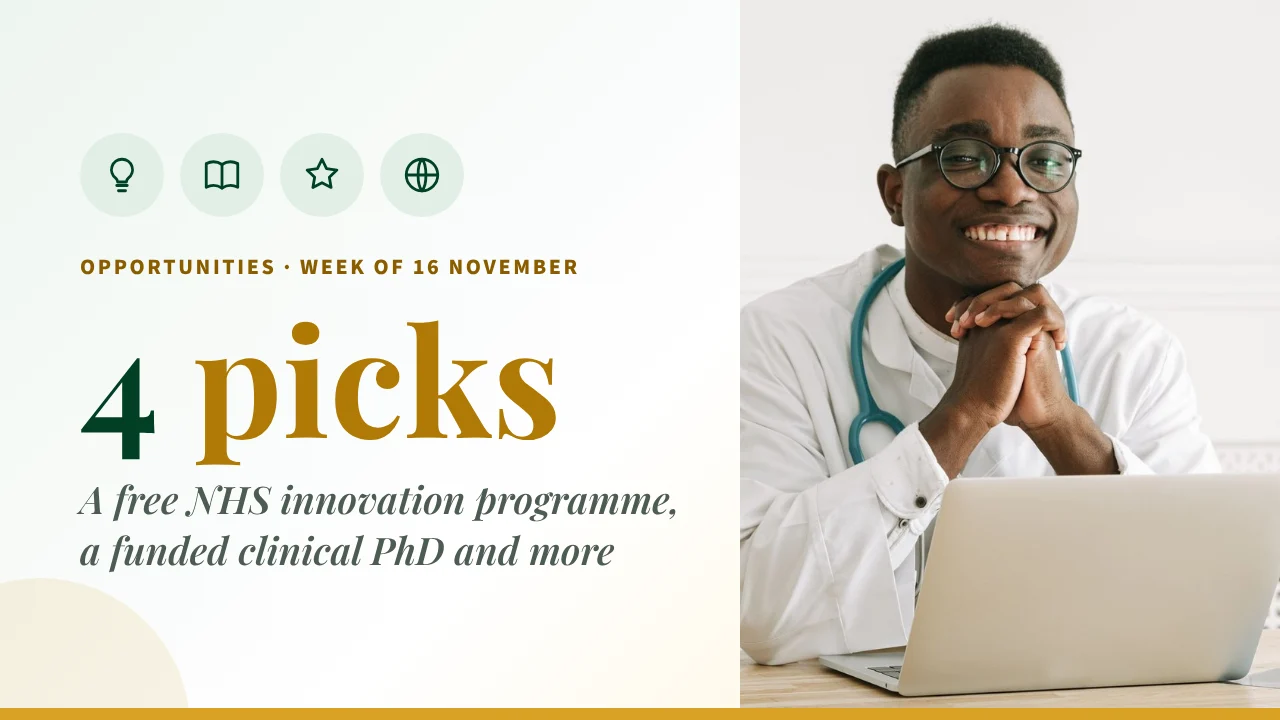
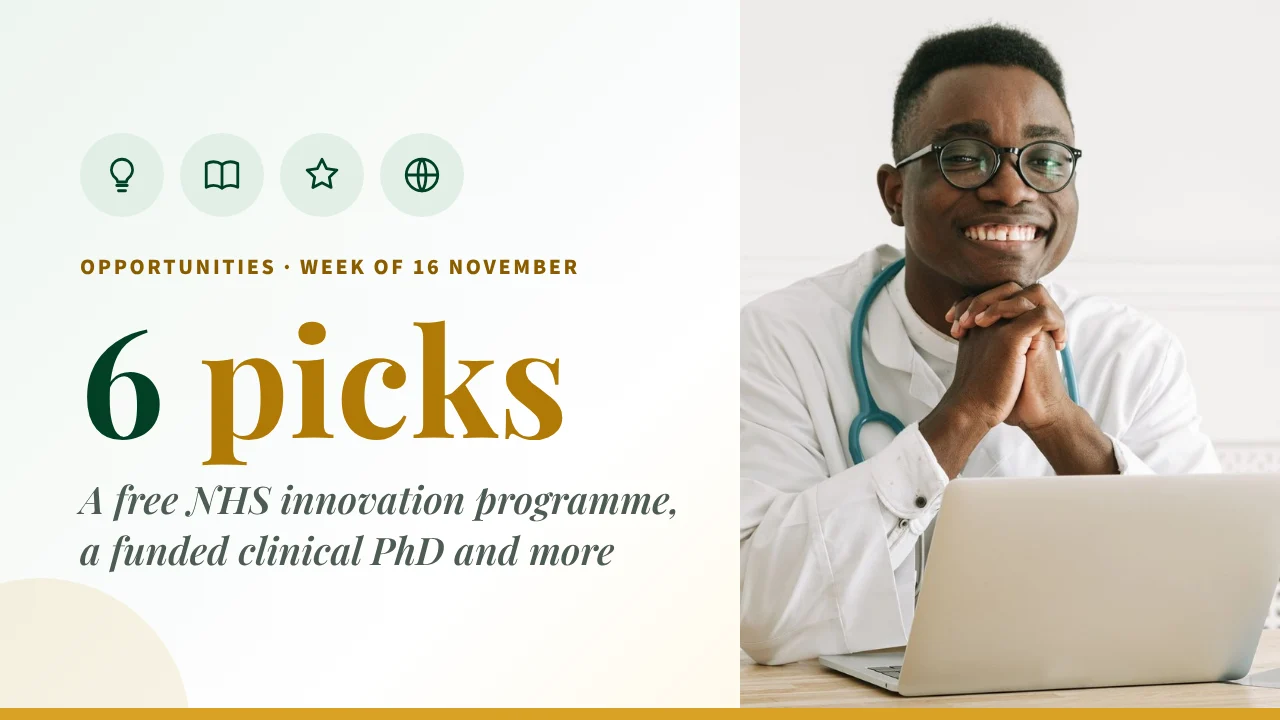
Add NIHR Academy awards and AMS Cross-sector Experience Awards to the 16 November roundup (#48)
Claude-Session: https://claude.ai/code/session_01TceWZ1n8TxHLDNLvaqp6sJ

Changed region(s): [[0.1562, 0.4278, 0.4375, 0.6417], [0.0625, 0.4583, 0.125, 0.6417]]

diff --git a/opportunities-2026-11-16.html b/opportunities-2026-11-16.html
@@ -3,11 +3,11 @@
 <head>
 <meta charset="utf-8">
 <meta name="viewport" content="width=device-width, initial-scale=1">
-<title>Healthcare opportunities, week of 16 November 2026: 4 picks | IHPN-UK</title>
-<meta name="description" content="Four checked opportunities, week of 16 November 2026: the NHS Clinical Entrepreneur Programme, a funded clinical PhD, research time and registrar projects.">
+<title>Healthcare opportunities, week of 16 November 2026: 6 picks | IHPN-UK</title>
+<meta name="description" content="Six checked opportunities, week of 16 November 2026: the NHS Clinical Entrepreneur Programme, NIHR and MRC research awards, placements and more.">
 <meta name="theme-color" content="#013f24">
-<meta property="og:title" content="Healthcare opportunities, week of 16 November 2026: 4 picks | IHPN-UK">
-<meta property="og:description" content="Four checked opportunities, week of 16 November 2026: the NHS Clinical Entrepreneur Programme, a funded clinical PhD, research time and registrar projects.">
+<meta property="og:title" content="Healthcare opportunities, week of 16 November 2026: 6 picks | IHPN-UK">
+<meta property="og:description" content="Six checked opportunities, week of 16 November 2026: the NHS Clinical Entrepreneur Programme, NIHR and MRC research awards, placements and more.">
 <link rel="canonical" href="https://ihpnuk.github.io/opportunities-2026-11-16.html">
 <meta property="og:url" content="https://ihpnuk.github.io/opportunities-2026-11-16.html">
 <meta property="og:site_name" content="Igbo Healthcare Professionals Network (IHPN-UK)">
@@ -15,7 +15,7 @@
 <meta property="og:image" content="https://ihpnuk.github.io/assets/share/opportunities-2026-11-16.jpg">
 <meta property="og:image:width" content="1200">
 <meta property="og:image:height" content="630">
-<meta property="og:image:alt" content="4 opportunities for UK healthcare professionals, week of 16 November 2026">
+<meta property="og:image:alt" content="6 opportunities for UK healthcare professionals, week of 16 November 2026">
 <meta property="article:modified_time" content="2026-11-15">
 <meta property="article:published_time" content="2026-11-15">
 <meta name="twitter:card" content="summary_large_image">
@@ -76,7 +76,7 @@
 @media (max-width:860px){.glance{grid-template-columns:1fr}}
 @media (max-width:560px){.feat-art{height:100px;justify-content:flex-end;padding-right:32px}.feat-art svg{width:56px;height:56px}.feat-body b{font-size:1.35rem}.mini a{grid-template-columns:40px 1fr}.mini .gl-who{font-size:.72rem}.mini svg{width:40px;height:40px;padding:8px}}
 .feat-art.ph{background:#eef2ef}.feat-art.ph::before,.feat-art.ph::after{display:none}.feat-art.ph img{position:absolute;inset:0;width:100%;height:100%;object-fit:cover;object-position:72% 15%}.ai-note{position:absolute;right:8px;bottom:8px;z-index:1;background:rgba(255,255,255,.85);color:#333;font-size:10px;line-height:1.3;font-weight:600;padding:1px 6px;border-radius:999px}@media (min-width:861px){.feat-art{flex:1;height:auto;min-height:260px}}.feat-art.ph img{object-position:72% 15%}@media (max-width:560px){.feat-art.ph{height:230px;padding-right:0}.feat-art.ph img{object-position:72% 15%}}
-.feat-flag{top:auto;bottom:12px}.glance{grid-template-columns:1fr}.feat-art.ph img{object-position:50% 10%}@media (min-width:861px){.feat{flex-direction:row}.feat-art{flex:0 0 44%;min-height:300px}.mini{display:grid;grid-template-columns:1fr 1fr 1fr;gap:12px}.mini a{height:100%}}@media (max-width:560px){.feat-art.ph img{object-position:50% 6%}}
+.feat-flag{top:auto;bottom:12px}.glance{grid-template-columns:1fr}.feat-art.ph img{object-position:50% 10%}@media (min-width:861px){.feat{flex-direction:row}.feat-art{flex:0 0 44%;min-height:300px}.mini{display:grid;grid-template-columns:1fr 1fr;gap:12px}.mini a{height:100%}}@media (max-width:560px){.feat-art.ph img{object-position:50% 6%}}
 </style>
 <script type="application/ld+json" id="seo-ld">
 {
@@ -85,8 +85,8 @@
   {
    "@type": "Article",
    "@id": "https://ihpnuk.github.io/opportunities-2026-11-16.html#article",
-   "headline": "Healthcare opportunities, week of 16 November 2026: 4 picks",
-   "description": "Four checked opportunities, week of 16 November 2026: the NHS Clinical Entrepreneur Programme, a funded clinical PhD, research time and registrar projects.",
+   "headline": "Healthcare opportunities, week of 16 November 2026: 6 picks",
+   "description": "Six checked opportunities, week of 16 November 2026: the NHS Clinical Entrepreneur Programme, NIHR and MRC research awards, placements and more.",
    "image": [
     "https://ihpnuk.github.io/assets/share/opportunities-2026-11-16.jpg"
    ],
@@ -158,14 +158,14 @@
 <section class="page-hero"><div class="wrap">
   <nav class="eyebrow" aria-label="Breadcrumb"><a href="news.html">News</a> &bull; Opportunities &bull; Week of 16 November 2026</nav>
   <h1>Opportunities: week of 16 November 2026</h1>
-  <p class="lead">Four picks this week, all about innovation, research and career growth: a free NHS innovation programme open to almost every role, a funded PhD you can do while staying clinical, protected research time in Scotland and national projects for public health registrars. Tap one to jump to it.</p>
+  <p class="lead">Six picks this week, all about innovation, research and career growth: a free NHS innovation programme open to almost every role, NIHR research awards at every level, a paid placement in another sector, a funded PhD you can do while staying clinical, protected research time in Scotland and national projects for public health registrars. Tap one to jump to it.</p>
 </div></section>
 
 <section>
   <div class="wrap" style="max-width:960px">
     <h2 class="sr">At a glance</h2>
-    <div class="glance"><a class="feat" href="#nhs-cep" aria-label="Featured: NHS Clinical Entrepreneur Programme, Closes Fri 20 Nov 2026, 4pm: apply this week. See details"><div class="feat-art ph"><img src="assets/photos/pexels-doctor-laptop.webp" alt="" width="768" height="1024"><span class="feat-flag">Closes Friday: apply this week</span></div><div class="feat-body"><span class="gl-who">Almost every NHS role, from HCAs to consultants</span><b>NHS Clinical Entrepreneur Programme</b><p>A free year of mentoring, workshops and events to turn your idea for better care into a real innovation.</p><span class="feat-when">Closes Fri 20 Nov 2026, 4pm: apply this week</span><span class="feat-btn">See details <span aria-hidden="true">&rarr;</span></span></div></a><ul class="mini"><li><a href="#mrc-crtf"><svg viewBox="0 0 24 24" aria-hidden="true"><path d="M9 3h6M10 3v6l-5 9a2 2 0 0 0 1.8 3h10.4a2 2 0 0 0 1.8-3l-5-9V3"/><path d="M7.5 15h9"/></svg><span><span class="gl-who">Nurses, midwives, pharmacists, dietitians, clinical psychologists &amp; doctors</span><b>Funded PhD for clinicians (MRC)</b></span><em>Closes 13 Jan</em></a></li><li><a href="#nrs-clinician-researcher"><svg viewBox="0 0 24 24" aria-hidden="true"><circle cx="9" cy="8" r="3"/><circle cx="17" cy="9" r="2.5"/><path d="M3 20c0-3.5 2.7-6 6-6s6 2.5 6 6"/><path d="M15 14.5c3 0 5.5 2 5.5 5"/></svg><span><span class="gl-who">Scotland: nurses, AHPs, pharmacists, psychologists &amp; public health</span><b>Protected research time (Scotland)</b></span><em>Closes 8 Dec</em></a></li><li><a href="#fph-projects"><svg viewBox="0 0 24 24" aria-hidden="true"><circle cx="12" cy="12" r="9"/><path d="M3 12h18M12 3c3 3.2 3 14.8 0 18M12 3c-3 3.2-3 14.8 0 18"/></svg><span><span class="gl-who">Public health specialty registrars</span><b>FPH projects for PH registrars</b></span><em>Act Early by 1 Dec</em></a></li></ul></div>
-    <figure class="tl-wrap"><svg class="timeline" viewBox="0 0 780 130" role="img" aria-labelledby="tl-t tl-d"><title id="tl-t">Key dates</title><desc id="tl-d">Timeline from today, 15 November 2026, to 13 January 2027: NHS CEP 20 Nov; FPH Act Early 1 Dec; NRS Scotland 8 Dec; MRC fellowship 13 Jan. Dates are in order, not to scale.</desc><line x1="40" y1="70" x2="700" y2="70" class="tl-axis"/><circle cx="40" cy="70" r="7" class="tl-today"/><text x="40" y="100" class="tl-lab" text-anchor="middle">Today</text><text x="40" y="118" class="tl-sub" text-anchor="middle">15 Nov</text><circle cx="200" cy="70" r="11" class="tl-dot"/><text x="200" y="44" class="tl-lab" text-anchor="middle">20 Nov</text><text x="200" y="100" class="tl-sub" text-anchor="middle">NHS CEP</text><circle cx="360" cy="70" r="11" class="tl-dot"/><text x="360" y="44" class="tl-lab" text-anchor="middle">1 Dec</text><text x="360" y="100" class="tl-sub" text-anchor="middle">FPH Act Early</text><circle cx="520" cy="70" r="11" class="tl-dot"/><text x="520" y="44" class="tl-lab" text-anchor="middle">8 Dec</text><text x="520" y="100" class="tl-sub" text-anchor="middle">NRS Scotland</text><circle cx="680" cy="70" r="11" class="tl-dot"/><text x="680" y="44" class="tl-lab" text-anchor="middle">13 Jan</text><text x="680" y="100" class="tl-sub" text-anchor="middle">MRC fellowship</text></svg><ol class="tl-list" aria-label="Key dates"><li><b>20 Nov</b> NHS Clinical Entrepreneur Programme</li><li><b>1 Dec</b> FPH projects for PH registrars</li><li><b>8 Dec</b> Protected research time (Scotland)</li><li><b>13 Jan</b> Funded PhD for clinicians (MRC)</li></ol></figure>
+    <div class="glance"><a class="feat" href="#nhs-cep" aria-label="Featured: NHS Clinical Entrepreneur Programme, Closes Fri 20 Nov 2026, 4pm: apply this week. See details"><div class="feat-art ph"><img src="assets/photos/pexels-doctor-laptop.webp" alt="" width="768" height="1024"><span class="feat-flag">Closes Friday: apply this week</span></div><div class="feat-body"><span class="gl-who">Almost every NHS role, from HCAs to consultants</span><b>NHS Clinical Entrepreneur Programme</b><p>A free year of mentoring, workshops and events to turn your idea for better care into a real innovation.</p><span class="feat-when">Closes Fri 20 Nov 2026, 4pm: apply this week</span><span class="feat-btn">See details <span aria-hidden="true">&rarr;</span></span></div></a><ul class="mini"><li><a href="#fph-projects"><svg viewBox="0 0 24 24" aria-hidden="true"><circle cx="12" cy="12" r="9"/><path d="M3 12h18M12 3c3 3.2 3 14.8 0 18M12 3c-3 3.2-3 14.8 0 18"/></svg><span><span class="gl-who">Public health specialty registrars</span><b>FPH projects for PH registrars</b></span><em>Act Early by 1 Dec</em></a></li><li><a href="#nrs-clinician-researcher"><svg viewBox="0 0 24 24" aria-hidden="true"><circle cx="9" cy="8" r="3"/><circle cx="17" cy="9" r="2.5"/><path d="M3 20c0-3.5 2.7-6 6-6s6 2.5 6 6"/><path d="M15 14.5c3 0 5.5 2 5.5 5"/></svg><span><span class="gl-who">Scotland: nurses, AHPs, pharmacists, psychologists &amp; public health</span><b>Protected research time (Scotland)</b></span><em>Closes 8 Dec</em></a></li><li><a href="#nihr-academy"><svg viewBox="0 0 24 24" aria-hidden="true"><path d="M4 5a2 2 0 0 1 2-2h13v16H6a2 2 0 0 0-2 2z"/><path d="M4 21V5M8 7h7M8 11h7"/></svg><span><span class="gl-who">England: health and care professionals &amp; researchers</span><b>NIHR funded research careers (England)</b></span><em>First closes 9 Dec</em></a></li><li><a href="#mrc-crtf"><svg viewBox="0 0 24 24" aria-hidden="true"><path d="M9 3h6M10 3v6l-5 9a2 2 0 0 0 1.8 3h10.4a2 2 0 0 0 1.8-3l-5-9V3"/><path d="M7.5 15h9"/></svg><span><span class="gl-who">Nurses, midwives, pharmacists, dietitians, clinical psychologists &amp; doctors</span><b>Funded PhD for clinicians (MRC)</b></span><em>Closes 13 Jan</em></a></li><li><a href="#acmedsci-cross-sector"><svg viewBox="0 0 24 24" aria-hidden="true"><path d="M4 8h13l-3-3M20 16H7l3 3"/></svg><span><span class="gl-who">Any health professional or researcher, any career stage</span><b>Paid placement in another sector</b></span><em>Closes 12 Feb</em></a></li></ul></div>
+    <figure class="tl-wrap"><svg class="timeline" viewBox="0 0 780 130" role="img" aria-labelledby="tl-t tl-d"><title id="tl-t">Key dates</title><desc id="tl-d">Timeline from today, 15 November 2026, to 12 February 2027: NHS CEP 20 Nov; FPH Act Early 1 Dec; NRS (Scotland) 8 Dec; NIHR 9 Dec; MRC PhD 13 Jan; Placement 12 Feb. Dates are in order, not to scale.</desc><line x1="40" y1="70" x2="745" y2="70" class="tl-axis"/><circle cx="40" cy="70" r="7" class="tl-today"/><text x="40" y="100" class="tl-lab" text-anchor="middle">Today</text><text x="40" y="118" class="tl-sub" text-anchor="middle">15 Nov</text><circle cx="150" cy="70" r="11" class="tl-dot"/><text x="150" y="44" class="tl-lab" text-anchor="middle">20 Nov</text><text x="150" y="100" class="tl-sub" text-anchor="middle">NHS CEP</text><circle cx="266" cy="70" r="11" class="tl-dot"/><text x="266" y="44" class="tl-lab" text-anchor="middle">1 Dec</text><text x="266" y="100" class="tl-sub" text-anchor="middle">FPH Act Early</text><circle cx="382" cy="70" r="11" class="tl-dot"/><text x="382" y="44" class="tl-lab" text-anchor="middle">8 Dec</text><text x="382" y="100" class="tl-sub" text-anchor="middle">NRS (Scotland)</text><circle cx="498" cy="70" r="11" class="tl-dot"/><text x="498" y="44" class="tl-lab" text-anchor="middle">9 Dec</text><text x="498" y="100" class="tl-sub" text-anchor="middle">NIHR</text><circle cx="614" cy="70" r="11" class="tl-dot"/><text x="614" y="44" class="tl-lab" text-anchor="middle">13 Jan</text><text x="614" y="100" class="tl-sub" text-anchor="middle">MRC PhD</text><circle cx="730" cy="70" r="11" class="tl-dot"/><text x="730" y="44" class="tl-lab" text-anchor="middle">12 Feb</text><text x="730" y="100" class="tl-sub" text-anchor="middle">Placement</text></svg><ol class="tl-list" aria-label="Key dates"><li><b>20 Nov</b> NHS Clinical Entrepreneur Programme</li><li><b>1 Dec</b> FPH projects for PH registrars</li><li><b>8 Dec</b> Protected research time (Scotland)</li><li><b>9 Dec</b> NIHR funded research careers (England)</li><li><b>13 Jan</b> Funded PhD for clinicians (MRC)</li><li><b>12 Feb</b> Paid placement in another sector</li></ol></figure>
     <div class="grid" style="gap:18px">
       <article class="card pk" id="nhs-cep">
         <div class="pk-head"><svg class="pk-ic" viewBox="0 0 24 24" aria-hidden="true"><circle cx="9" cy="8" r="3"/><circle cx="17" cy="9" r="2.5"/><path d="M3 20c0-3.5 2.7-6 6-6s6 2.5 6 6"/><path d="M15 14.5c3 0 5.5 2 5.5 5"/></svg><div><span class="eyebrow" style="color:var(--gold-deep)">Almost every NHS role, from HCAs to consultants</span><h2>NHS Clinical Entrepreneur Programme, Cohort 11</h2></div></div>
@@ -174,12 +174,12 @@
         <details><summary>Who can apply and details</summary><ul><li>You need to be 18 or over and part of the NHS workforce. Roles listed include doctors and GPs, nurses, midwives, pharmacists, optometrists, dietitians and other allied health professionals, psychological professions, healthcare scientists, healthcare assistants and other clinical support staff, and healthcare managers. Public health is not named, so check with the team first</li><li>You need an innovation idea, clinical or non-clinical. It can be early stage if you have thought it through carefully</li><li>The application includes a one-minute video pitch and two letters of support from professional contacts, so start now. Write it yourself: the programme does not allow AI-written applications</li><li>Delivered by Anglia Ruskin University as an NHS England initiative. It runs for 12 months from March 2027, with CPD-accredited events, mentoring, workshops and an alumni network. You commit to at least half of the group events and four mentoring sessions</li></ul></details>
         <p><a class="btn btn-gold pk-btn" href="https://nhscep.com/apply-now/" target="_blank" rel="noopener">See the programme and apply&nbsp;&rarr;<span class="sr"> (opens in new tab)</span></a></p>
       </article>
-      <article class="card pk" id="mrc-crtf">
-        <div class="pk-head"><svg class="pk-ic" viewBox="0 0 24 24" aria-hidden="true"><path d="M9 3h6M10 3v6l-5 9a2 2 0 0 0 1.8 3h10.4a2 2 0 0 0 1.8-3l-5-9V3"/><path d="M7.5 15h9"/></svg><div><span class="eyebrow" style="color:var(--gold-deep)">Nurses, midwives, pharmacists, dietitians, clinical psychologists &amp; doctors</span><h2>MRC Professional Doctorate Clinical Research Training Fellowship</h2></div></div>
-        <p>Three years of salary and project costs to do a PhD while staying clinical, for registered healthcare professionals.</p>
-        <ul class="facts"><li><svg class="fi" viewBox="0 0 24 24" aria-hidden="true"><rect x="3" y="5" width="18" height="16" rx="2"/><path d="M3 10h18M8 3v4M16 3v4"/></svg>Closes Wed 13 Jan 2027, 4pm</li><li><svg class="fi" viewBox="0 0 24 24" aria-hidden="true"><path d="M16 6.5A4 4 0 0 0 8.5 8.5V13M6 13h8M6.5 19h11M8.5 13c0 3-1 4.5-2 6"/></svg>Salary, project costs and home tuition fees for three years</li><li><svg class="fi" viewBox="0 0 24 24" aria-hidden="true"><path d="M12 21s-7-6.2-7-11.5a7 7 0 0 1 14 0C19 14.8 12 21 12 21z"/><circle cx="12" cy="9.5" r="2.5"/></svg>Any UK nation, at an eligible UK research organisation</li></ul>
-        <details><summary>Who can apply and details</summary><ul><li>Open to healthcare professionals registered with a UK statutory regulator, including nurses, midwives, allied health professionals (such as dietitians), pharmacists, clinical psychologists and doctors</li><li>Doctors should be in specialty training and have completed their membership exams or equivalent. Non-medical professionals need to have finished professional training and hold a research master&rsquo;s or equivalent. Clinical psychologists need their BPS-accredited professional doctorate before starting</li><li>Funds your salary and project costs for three years, with up to &pound;25,000 a year for consumables, equipment and travel, plus tuition fees at the home rate</li><li>Apply through the UKRI Funding Service with your research office. Awards start between October 2027 and January 2028, so talk to a potential supervisor now</li></ul></details>
-        <p><a class="btn btn-gold pk-btn" href="https://www.ukri.org/opportunity/professional-doctorate-clinical-research-training-fellowship/" target="_blank" rel="noopener">See the fellowship on the UKRI site&nbsp;&rarr;<span class="sr"> (opens in new tab)</span></a></p>
+      <article class="card pk" id="fph-projects">
+        <div class="pk-head"><svg class="pk-ic" viewBox="0 0 24 24" aria-hidden="true"><circle cx="12" cy="12" r="9"/><path d="M3 12h18M12 3c3 3.2 3 14.8 0 18M12 3c-3 3.2-3 14.8 0 18"/></svg><div><span class="eyebrow" style="color:var(--gold-deep)">Public health specialty registrars</span><h2>Faculty of Public Health Registrars Projects Scheme</h2></div></div>
+        <p>Join a national Faculty project alongside your training: children&rsquo;s health, AI and digital public health, and more.</p>
+        <ul class="facts"><li><svg class="fi" viewBox="0 0 24 24" aria-hidden="true"><rect x="3" y="5" width="18" height="16" rx="2"/><path d="M3 10h18M8 3v4M16 3v4"/></svg>Act Early project: apply by 1 Dec (negotiable)</li><li><svg class="fi" viewBox="0 0 24 24" aria-hidden="true"><path d="M16 6.5A4 4 0 0 0 8.5 8.5V13M6 13h8M6.5 19h11M8.5 13c0 3-1 4.5-2 6"/></svg>Travel costs normally met by your deanery</li><li><svg class="fi" viewBox="0 0 24 24" aria-hidden="true"><path d="M12 21s-7-6.2-7-11.5a7 7 0 0 1 14 0C19 14.8 12 21 12 21z"/><circle cx="12" cy="9.5" r="2.5"/></svg>Act Early is in Lambeth and Southwark, London; check each project&rsquo;s location</li></ul>
+        <details><summary>Who can apply and details</summary><ul><li>For public health specialty registrars. Some projects ask for ST3 or above. These are projects with a named supervisor, not placements, so agree time with your training programme first</li><li>Act Early (children and young people): a six-month secondment, two days a week, in Lambeth and Southwark. The page gives 1 December 2026 as the start-date deadline, and says it can be negotiated</li><li>AI and Digital Public Health: a project planned for 2026 to 2027, with no deadline listed. Other projects on the page close sooner (one on 20 November), so check them today</li><li>Apply with the Faculty&rsquo;s projects application form, as explained on the page</li></ul></details>
+        <p><a class="btn btn-gold pk-btn" href="https://www.fph.org.uk/training-careers/fph-registrars-projects-scheme/" target="_blank" rel="noopener">See the projects on the FPH site&nbsp;&rarr;<span class="sr"> (opens in new tab)</span></a></p>
       </article>
       <article class="card pk" id="nrs-clinician-researcher">
         <div class="pk-head"><svg class="pk-ic" viewBox="0 0 24 24" aria-hidden="true"><circle cx="9" cy="8" r="3"/><circle cx="17" cy="9" r="2.5"/><path d="M3 20c0-3.5 2.7-6 6-6s6 2.5 6 6"/><path d="M15 14.5c3 0 5.5 2 5.5 5"/></svg><div><span class="eyebrow" style="color:var(--gold-deep)">Scotland: nurses, AHPs, pharmacists, psychologists &amp; public health</span><h2>NHS Research Scotland Clinician Researcher Scheme</h2></div></div>
@@ -188,16 +188,30 @@
         <details><summary>Who can apply and details</summary><ul><li>For nurses, allied health professionals, pharmacists, biomedical and clinical scientists, public health specialists, psychologists and paramedics, registered with their professional body</li><li>You must be Band 6 or above, and not have been at Band 8c for more than six years by March 2027. You must not already have funded research sessions</li><li>You need a mentor and sign-off from your clinical director. Apply through the Chief Scientist Office&rsquo;s online portal</li><li>Interviews are in February 2027 and fellowships start on 1 April 2027</li></ul></details>
         <p><a class="btn btn-gold pk-btn" href="https://www.cso.scot.nhs.uk/fellowship-funding/nrs-career-researcher-fellowships/nhs-research-scotland-clinician-researcher-nmahp-scheme/" target="_blank" rel="noopener">See the scheme on the CSO site&nbsp;&rarr;<span class="sr"> (opens in new tab)</span></a></p>
       </article>
-      <article class="card pk" id="fph-projects">
-        <div class="pk-head"><svg class="pk-ic" viewBox="0 0 24 24" aria-hidden="true"><circle cx="12" cy="12" r="9"/><path d="M3 12h18M12 3c3 3.2 3 14.8 0 18M12 3c-3 3.2-3 14.8 0 18"/></svg><div><span class="eyebrow" style="color:var(--gold-deep)">Public health specialty registrars</span><h2>Faculty of Public Health Registrars Projects Scheme</h2></div></div>
-        <p>Join a national Faculty project alongside your training: children&rsquo;s health, AI and digital public health, and more.</p>
-        <ul class="facts"><li><svg class="fi" viewBox="0 0 24 24" aria-hidden="true"><rect x="3" y="5" width="18" height="16" rx="2"/><path d="M3 10h18M8 3v4M16 3v4"/></svg>Act Early project: apply by 1 Dec (negotiable)</li><li><svg class="fi" viewBox="0 0 24 24" aria-hidden="true"><path d="M16 6.5A4 4 0 0 0 8.5 8.5V13M6 13h8M6.5 19h11M8.5 13c0 3-1 4.5-2 6"/></svg>Travel costs normally met by your deanery</li><li><svg class="fi" viewBox="0 0 24 24" aria-hidden="true"><path d="M12 21s-7-6.2-7-11.5a7 7 0 0 1 14 0C19 14.8 12 21 12 21z"/><circle cx="12" cy="9.5" r="2.5"/></svg>Act Early is in Lambeth and Southwark, London; check each project&rsquo;s location</li></ul>
-        <details><summary>Who can apply and details</summary><ul><li>For public health specialty registrars. Some projects ask for ST3 or above. These are projects with a named supervisor, not placements, so agree time with your training programme first</li><li>Act Early (children and young people): a six-month secondment, two days a week, in Lambeth and Southwark. The page gives 1 December 2026 as the start-date deadline, and says it can be negotiated</li><li>AI and Digital Public Health: a project planned for 2026 to 2027, with no deadline listed. Other projects on the page close sooner (one on 20 November), so check them today</li><li>Apply with the Faculty&rsquo;s projects application form, as explained on the page</li></ul></details>
-        <p><a class="btn btn-gold pk-btn" href="https://www.fph.org.uk/training-careers/fph-registrars-projects-scheme/" target="_blank" rel="noopener">See the projects on the FPH site&nbsp;&rarr;<span class="sr"> (opens in new tab)</span></a></p>
+      <article class="card pk" id="nihr-academy">
+        <div class="pk-head"><svg class="pk-ic" viewBox="0 0 24 24" aria-hidden="true"><path d="M4 5a2 2 0 0 1 2-2h13v16H6a2 2 0 0 0-2 2z"/><path d="M4 21V5M8 7h7M8 11h7"/></svg><div><span class="eyebrow" style="color:var(--gold-deep)">England: health and care professionals &amp; researchers</span><h2>NIHR Academy awards: doctoral, postdoctoral and professorships</h2></div></div>
+        <p>Funded protected time to build a research career, at three levels: your first PhD, after your PhD, and professor.</p>
+        <ul class="facts"><li><svg class="fi" viewBox="0 0 24 24" aria-hidden="true"><rect x="3" y="5" width="18" height="16" rx="2"/><path d="M3 10h18M8 3v4M16 3v4"/></svg>First closes Wed 9 Dec (professorships); others 13 and 14 Jan</li><li><svg class="fi" viewBox="0 0 24 24" aria-hidden="true"><path d="M16 6.5A4 4 0 0 0 8.5 8.5V13M6 13h8M6.5 19h11M8.5 13c0 3-1 4.5-2 6"/></svg>Funded: salary plus research and training costs</li><li><svg class="fi" viewBox="0 0 24 24" aria-hidden="true"><path d="M12 21s-7-6.2-7-11.5a7 7 0 0 1 14 0C19 14.8 12 21 12 21z"/><circle cx="12" cy="9.5" r="2.5"/></svg>England only (Scotland and Wales are not taking part)</li></ul>
+        <details><summary>Who can apply and details</summary><ul><li><b>Doctoral Award (Cohort 4)</b>: for health and care professionals without a PhD (check the NIHR guidance for your profession). Three years of funded protected time, with salary, project and training costs (up to &pound;500,000). Closes 1pm, Wed 13 January 2027</li><li><b>Postdoctoral Award (Cohort 4)</b>: for people with a relevant PhD or MD who do not hold a chair, including diabetes researchers. Two to five years with salary, a support post and research costs. Closes 1pm, Thu 14 January 2027</li><li><b>Research Professorships (Cohort 17)</b>: for senior health, public health and care researchers with an outstanding record. Up to &pound;2 million over five years. You must be nominated by an English university or NHS body, and non-medical professions are prioritised. Closes 1pm, Wed 9 December 2026</li><li>Your employer or university must be in England for all three. Talk to your research office now, because each needs host sign-off</li></ul></details>
+        <p><a class="btn btn-gold pk-btn" href="https://www.nihr.ac.uk/funding/doctoral-award-cohort-4/2026539" target="_blank" rel="noopener">See the Doctoral Award on the NIHR site&nbsp;&rarr;<span class="sr"> (opens in new tab)</span></a></p>
+      </article>
+      <article class="card pk" id="mrc-crtf">
+        <div class="pk-head"><svg class="pk-ic" viewBox="0 0 24 24" aria-hidden="true"><path d="M9 3h6M10 3v6l-5 9a2 2 0 0 0 1.8 3h10.4a2 2 0 0 0 1.8-3l-5-9V3"/><path d="M7.5 15h9"/></svg><div><span class="eyebrow" style="color:var(--gold-deep)">Nurses, midwives, pharmacists, dietitians, clinical psychologists &amp; doctors</span><h2>MRC Professional Doctorate Clinical Research Training Fellowship</h2></div></div>
+        <p>Three years of salary and project costs to do a PhD while staying clinical, for registered healthcare professionals.</p>
+        <ul class="facts"><li><svg class="fi" viewBox="0 0 24 24" aria-hidden="true"><rect x="3" y="5" width="18" height="16" rx="2"/><path d="M3 10h18M8 3v4M16 3v4"/></svg>Closes Wed 13 Jan 2027, 4pm</li><li><svg class="fi" viewBox="0 0 24 24" aria-hidden="true"><path d="M16 6.5A4 4 0 0 0 8.5 8.5V13M6 13h8M6.5 19h11M8.5 13c0 3-1 4.5-2 6"/></svg>Salary, project costs and home tuition fees for three years</li><li><svg class="fi" viewBox="0 0 24 24" aria-hidden="true"><path d="M12 21s-7-6.2-7-11.5a7 7 0 0 1 14 0C19 14.8 12 21 12 21z"/><circle cx="12" cy="9.5" r="2.5"/></svg>Any UK nation, at an eligible UK research organisation</li></ul>
+        <details><summary>Who can apply and details</summary><ul><li>Open to healthcare professionals registered with a UK statutory regulator, including nurses, midwives, allied health professionals (such as dietitians), pharmacists, clinical psychologists and doctors</li><li>Doctors should be in specialty training and have completed their membership exams or equivalent. Non-medical professionals need to have finished professional training and hold a research master&rsquo;s or equivalent. Clinical psychologists need their BPS-accredited professional doctorate before starting</li><li>Funds your salary and project costs for three years, with up to &pound;25,000 a year for consumables, equipment and travel, plus tuition fees at the home rate</li><li>Apply through the UKRI Funding Service with your research office. Awards start between October 2027 and January 2028, so talk to a potential supervisor now</li></ul></details>
+        <p><a class="btn btn-gold pk-btn" href="https://www.ukri.org/opportunity/professional-doctorate-clinical-research-training-fellowship/" target="_blank" rel="noopener">See the fellowship on the UKRI site&nbsp;&rarr;<span class="sr"> (opens in new tab)</span></a></p>
+      </article>
+      <article class="card pk" id="acmedsci-cross-sector">
+        <div class="pk-head"><svg class="pk-ic" viewBox="0 0 24 24" aria-hidden="true"><path d="M4 8h13l-3-3M20 16H7l3 3"/></svg><div><span class="eyebrow" style="color:var(--gold-deep)">Any health professional or researcher, any career stage</span><h2>Academy of Medical Sciences Cross-sector Experience Awards</h2></div></div>
+        <p>Up to &pound;100,000 to spend 3 to 12 months working in industry, policy, a charity or another sector, then bring it back.</p>
+        <ul class="facts"><li><svg class="fi" viewBox="0 0 24 24" aria-hidden="true"><rect x="3" y="5" width="18" height="16" rx="2"/><path d="M3 10h18M8 3v4M16 3v4"/></svg>Closes Fri 12 Feb 2027, 4pm</li><li><svg class="fi" viewBox="0 0 24 24" aria-hidden="true"><path d="M16 6.5A4 4 0 0 0 8.5 8.5V13M6 13h8M6.5 19h11M8.5 13c0 3-1 4.5-2 6"/></svg>Covers your base salary and on-costs, plus travel for you</li><li><svg class="fi" viewBox="0 0 24 24" aria-hidden="true"><path d="M12 21s-7-6.2-7-11.5a7 7 0 0 1 14 0C19 14.8 12 21 12 21z"/><circle cx="12" cy="9.5" r="2.5"/></svg>Any UK nation (your employer must be UK-based)</li></ul>
+        <details><summary>Who can apply and details</summary><ul><li>Open to any discipline or sector, if the work links to improving human health. There is no set career stage and you do not need a PhD</li><li>You need a contract that runs beyond the end of the award, and a host organisation in a different sector (it can be outside the UK). You cannot have worked for the host before</li><li>The award pays your base salary, National Insurance and employer contributions. It does not cover indirect costs</li><li>Apply online through the Academy&rsquo;s grant system</li></ul></details>
+        <p><a class="btn btn-gold pk-btn" href="https://acmedsci.ac.uk/grants-and-programmes/grants/cross-sector-experience-awards" target="_blank" rel="noopener">See the award on the Academy site&nbsp;&rarr;<span class="sr"> (opens in new tab)</span></a></p>
       </article>
     </div>
     <p style="margin-top:20px;color:var(--muted);font-size:.9rem"><em>Checked on official sites, 15 Nov 2026. Photo: Pexels. IHPN-UK isn&rsquo;t paid to feature these. Check the official page before you apply.</em></p>
-    <figure style="margin:36px auto 0;text-align:center"><img src="assets/opportunities/2026-11-16.webp" width="1080" height="1350" alt="IHPN-UK opportunities for the week of 16 November 2026: NHS Clinical Entrepreneur Programme, a free year of mentoring and workshops for NHS staff with an innovation idea, closes 20 November; Faculty of Public Health projects for public health registrars, Act Early project by 1 December (negotiable); NHS Research Scotland Clinician Researcher scheme, protected research time for NHS Scotland nurses, AHPs, pharmacists, psychologists and public health specialists, closes 8 December; MRC funded PhD fellowship for registered clinicians including clinical psychologists, closes 13 January. Why join IHPN-UK: hear about our talks, events and opportunities, ask questions and get support in our members&rsquo; group, and connect with Igbo healthcare professionals across the UK." loading="lazy" style="border-radius:14px;box-shadow:var(--shadow);margin:0 auto;width:100%;max-width:420px;height:auto"><figcaption style="color:var(--muted);margin-top:10px">Share this week&rsquo;s card</figcaption></figure>
+    <figure style="margin:36px auto 0;text-align:center"><img src="assets/opportunities/2026-11-16.webp" width="1080" height="1350" alt="IHPN-UK opportunities for the week of 16 November 2026: NHS Clinical Entrepreneur Programme, a free year of mentoring and workshops for NHS staff with an innovation idea, closes 20 November; Faculty of Public Health projects for public health registrars, Act Early project by 1 December (negotiable); NHS Research Scotland Clinician Researcher scheme, protected research time for NHS Scotland nurses, AHPs, pharmacists, psychologists and public health specialists, closes 8 December; MRC funded PhD fellowship for registered clinicians including clinical psychologists, closes 13 January. Two more picks, NIHR research awards in England and a paid cross-sector placement, at ihpnuk.github.io. Why join IHPN-UK: hear about our talks, events and opportunities, ask questions and get support in our members&rsquo; group, and connect with Igbo healthcare professionals across the UK." loading="lazy" style="border-radius:14px;box-shadow:var(--shadow);margin:0 auto;width:100%;max-width:420px;height:auto"><figcaption style="color:var(--muted);margin-top:10px">Share this week&rsquo;s card</figcaption></figure>
     <aside class="convo" aria-labelledby="convo-h"><div class="convo-ic"><svg viewBox="0 0 24 24" aria-hidden="true"><path d="M4 5h12a2 2 0 0 1 2 2v6a2 2 0 0 1-2 2H9l-4 3v-3H4a2 2 0 0 1-2-2V7a2 2 0 0 1 2-2z"/><path d="M20 9h1a1 1 0 0 1 1 1v6a1 1 0 0 1-1 1h-1v3l-3-3h-5"/></svg></div><div><h2 id="convo-h">Join the conversation</h2><p>Support workers and HCAs: the RCN Foundation&rsquo;s education grants reopen in spring 2027, and we&rsquo;ll flag them the moment they do. Health visitors and pharmacists: what would help your career most this year? Tell us and we&rsquo;ll go looking.</p><div class="actions"><a class="btn btn-gold" href="https://www.tiktok.com/@ihpnuk" target="_blank" rel="noopener"><svg viewBox="0 0 24 24" aria-hidden="true"><path d="M16.6 5.8A4.3 4.3 0 0 1 15.5 3h-3.1v12.4a2.6 2.6 0 1 1-2.6-2.6c.3 0 .5 0 .8.1V9.7a5.8 5.8 0 1 0 5 5.7V9.1a7.4 7.4 0 0 0 4.3 1.4V7.4a4.3 4.3 0 0 1-3.3-1.6z"/></svg> Message us on TikTok<span class="sr"> (opens in new tab)</span></a><a class="btn btn-outline dark" href="https://www.instagram.com/ihpnuk/" target="_blank" rel="noopener"><svg viewBox="0 0 24 24" aria-hidden="true"><path fill-rule="evenodd" d="M7.5 2h9A5.5 5.5 0 0 1 22 7.5v9a5.5 5.5 0 0 1-5.5 5.5h-9A5.5 5.5 0 0 1 2 16.5v-9A5.5 5.5 0 0 1 7.5 2zm0 2A3.5 3.5 0 0 0 4 7.5v9A3.5 3.5 0 0 0 7.5 20h9a3.5 3.5 0 0 0 3.5-3.5v-9A3.5 3.5 0 0 0 16.5 4h-9zM12 7a5 5 0 1 1 0 10 5 5 0 0 1 0-10zm0 2a3 3 0 1 0 0 6 3 3 0 0 0 0-6zm5.3-3.6a1.3 1.3 0 1 1 0 2.6 1.3 1.3 0 0 1 0-2.6z"/></svg> Message us on Instagram<span class="sr"> (opens in new tab)</span></a><a class="btn btn-outline dark" href="mailto:ihpnuk@outlook.com?subject=Opportunities%2016%20November"><svg viewBox="0 0 24 24" aria-hidden="true"><path d="M3 5h18a1 1 0 0 1 1 1v12a1 1 0 0 1-1 1H3a1 1 0 0 1-1-1V6a1 1 0 0 1 1-1zm1 2.4V17h16V7.4l-8 5.3-8-5.3zM5.6 7 12 11.2 18.4 7H5.6z"/></svg> Email us</a></div><p class="convo-mail">or write to <a href="mailto:ihpnuk@outlook.com">ihpnuk@outlook.com</a></p></div></aside>
   </div>
 </section>

diff --git a/news.html b/news.html
@@ -143,8 +143,8 @@
       <article class="card news-item">
         <div class="news-thumb"><img src="assets/news/opportunities-2026-11-16.webp" alt="" width="640" height="360" loading="lazy"></div>
         <time datetime="2026-11-15">15 November 2026</time>
-        <h3>Opportunities this week: 4 picks for healthcare professionals</h3>
-        <p>The free NHS Clinical Entrepreneur Programme (closes 20 November), a funded PhD you can do while staying clinical, protected research time in Scotland and projects for public health registrars.</p>
+        <h3>Opportunities this week: 6 picks for healthcare professionals</h3>
+        <p>The free NHS Clinical Entrepreneur Programme (closes 20 November), NIHR and MRC research awards, a paid placement in another sector, research time in Scotland and projects for public health registrars.</p>
         <a href="opportunities-2026-11-16.html">See this week&rsquo;s picks<span class="sr"> (16 November)</span> &rarr;</a>
       </article>
       <article class="card news-item">
